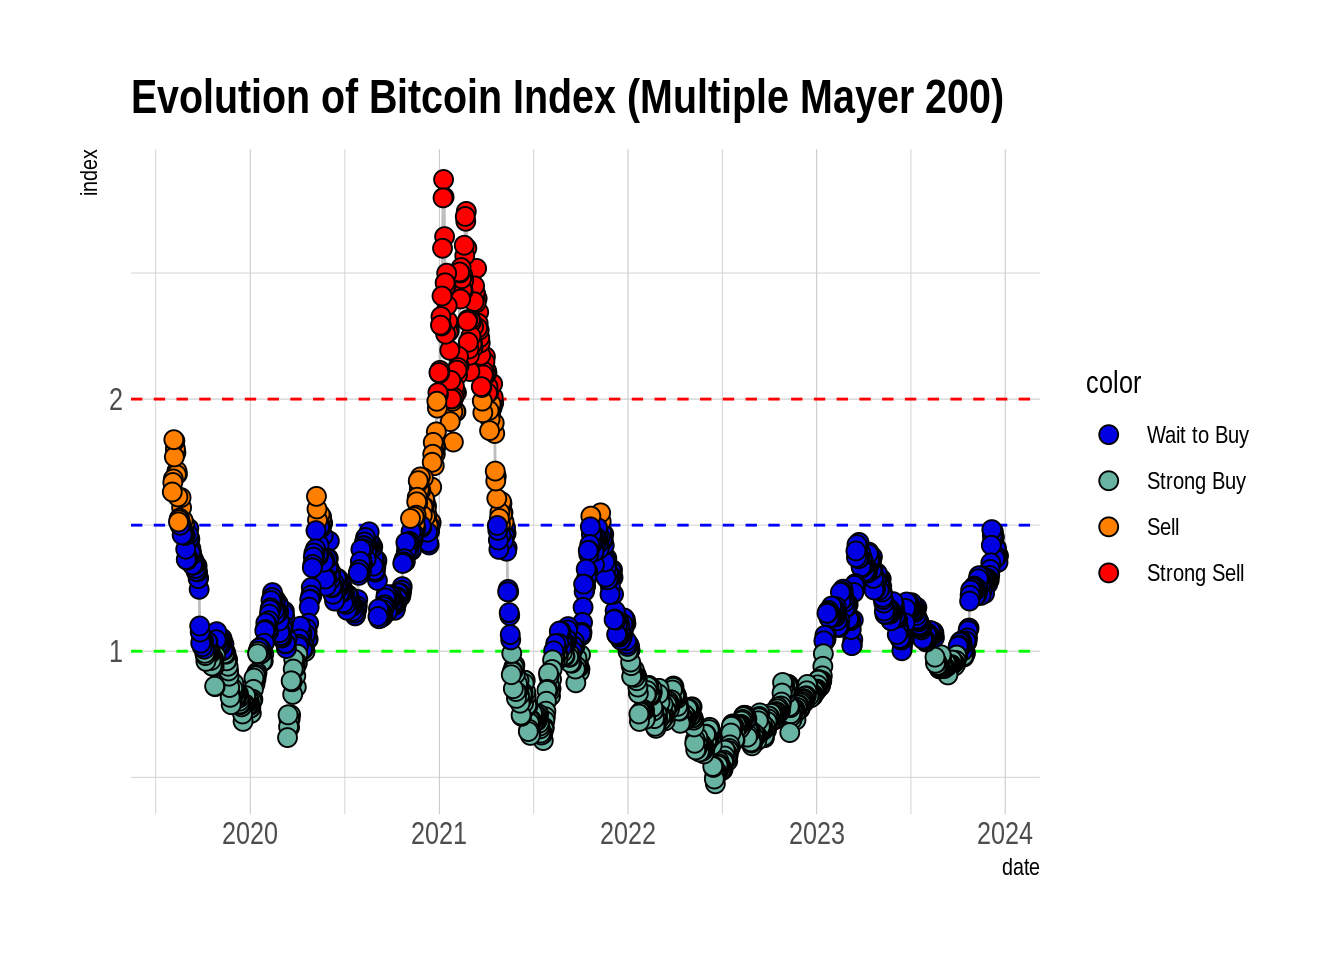
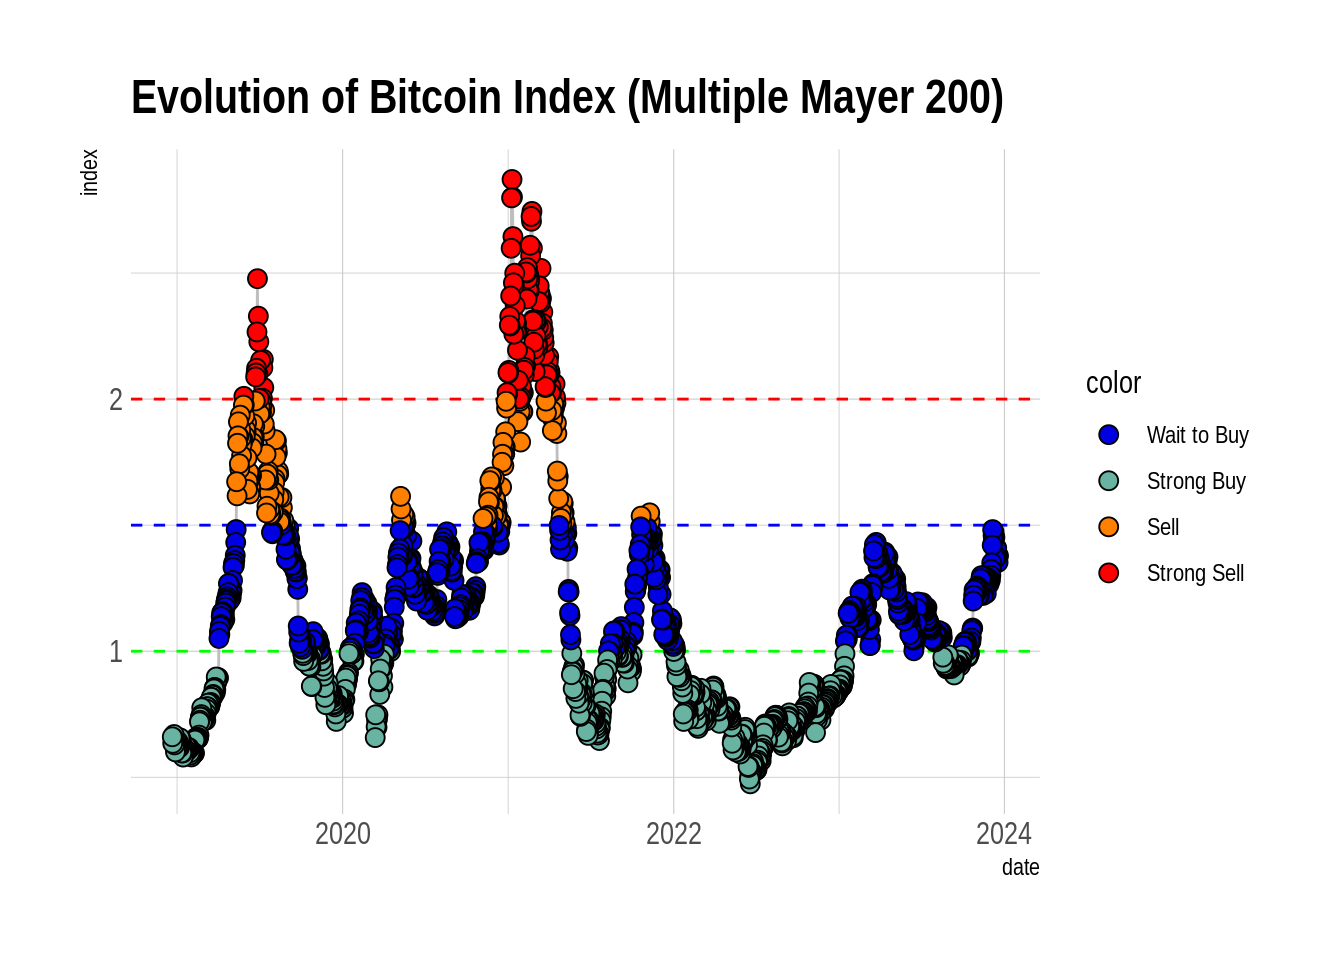
adicionando grafico de um mes

diff --git a/docs/index.html b/docs/index.html
@@ -516,15 +516,15 @@ project makes it easier to run your code on other machines.</p>
 <div class="panel panel-default">
 <div class="panel-heading">
 <p class="panel-title">
-<a data-toggle="collapse" data-parent="#workflowr-checks" href="#strongRepositoryversionstrongahrefhttpsgithubcomchris263bitcoinindextreef89588964b425ad2d35f1d6958435da7f88bdebftargetblankf895889a">
+<a data-toggle="collapse" data-parent="#workflowr-checks" href="#strongRepositoryversionstrongahrefhttpsgithubcomchris263bitcoinindextreec3804c627a725b8d538d9cef59e08baf821b1ce9targetblankc3804c6a">
 <span class="glyphicon glyphicon-ok text-success"
 aria-hidden="true"></span> <strong>Repository version:</strong>
-<a href="https://github.com/chris263/bitcoin_index/tree/f89588964b425ad2d35f1d6958435da7f88bdebf" target="_blank">f895889</a>
+<a href="https://github.com/chris263/bitcoin_index/tree/c3804c627a725b8d538d9cef59e08baf821b1ce9" target="_blank">c3804c6</a>
 </a>
 </p>
 </div>
 <div
[2 lines of base64/hex data omitted]
 class="panel-collapse collapse">
 <div class="panel-body">
 <p>
@@ -534,7 +534,7 @@ reproducibility.
 </p>
 <p>
 The results in this page were generated with repository version
-<a href="https://github.com/chris263/bitcoin_index/tree/f89588964b425ad2d35f1d6958435da7f88bdebf" target="_blank">f895889</a>.
+<a href="https://github.com/chris263/bitcoin_index/tree/c3804c627a725b8d538d9cef59e08baf821b1ce9" target="_blank">c3804c6</a>.
 See the <em>Past versions</em> tab to see a history of the changes made
 to the R Markdown and HTML files.
 </p>
@@ -600,6 +600,40 @@ Message
 </tr>
 </thead>
 <tbody>
+<tr>
+<td>
+Rmd
+</td>
+<td>
+<a href="https://github.com/chris263/bitcoin_index/blob/c3804c627a725b8d538d9cef59e08baf821b1ce9/analysis/index.Rmd" target="_blank">c3804c6</a>
+</td>
+<td>
+chris263
+</td>
+<td>
+2023-12-18
+</td>
+<td>
+corrrigind as datas de hoje
+</td>
+</tr>
+<tr>
+<td>
+html
+</td>
+<td>
+<a href="https://rawcdn.githack.com/chris263/bitcoin_index/c3804c627a725b8d538d9cef59e08baf821b1ce9/docs/index.html" target="_blank">c3804c6</a>
+</td>
+<td>
+chris263
+</td>
+<td>
+2023-12-18
+</td>
+<td>
+corrrigind as datas de hoje
+</td>
+</tr>
 <tr>
 <td>
 Rmd
@@ -729,8 +763,8 @@ Index &gt; 2 Venda logo!!.</p>
  Price =  204330.4 
  The decision is:  Wait to Buy </code></pre>
 </div>
-<div id="análise-gráfica" class="section level2">
-<h2>Análise Gráfica</h2>
+<div id="análise-gráfica-5-anos" class="section level2">
+<h2>Análise Gráfica 5 Anos</h2>
 <p><img src="figure/index.Rmd/grafico-1.png" width="672" style="display: block; margin: auto;" /></p>
 <p>
 <button type="button" class="btn btn-default btn-xs btn-workflowr btn-workflowr-fig" data-toggle="collapse" data-target="#fig-grafico-1">
@@ -769,6 +803,13 @@ chris263
 </table>
 </div>
 </div>
+</div>
+<div id="análise-gráfica-1-mês" class="section level2">
+<h2>Análise Gráfica 1 Mês</h2>
+<pre class="r"><code># Show the plot
+monthDays &lt;- 30
+print(printPlot(monthDays))</code></pre>
+<p><img src="figure/index.Rmd/unnamed-chunk-1-1.png" width="672" style="display: block; margin: auto;" /></p>
 <br>
 <p>
 <button type="button" class="btn btn-default btn-workflowr btn-workflowr-sessioninfo" data-toggle="collapse" data-target="#workflowr-sessioninfo" style="display: block;">
